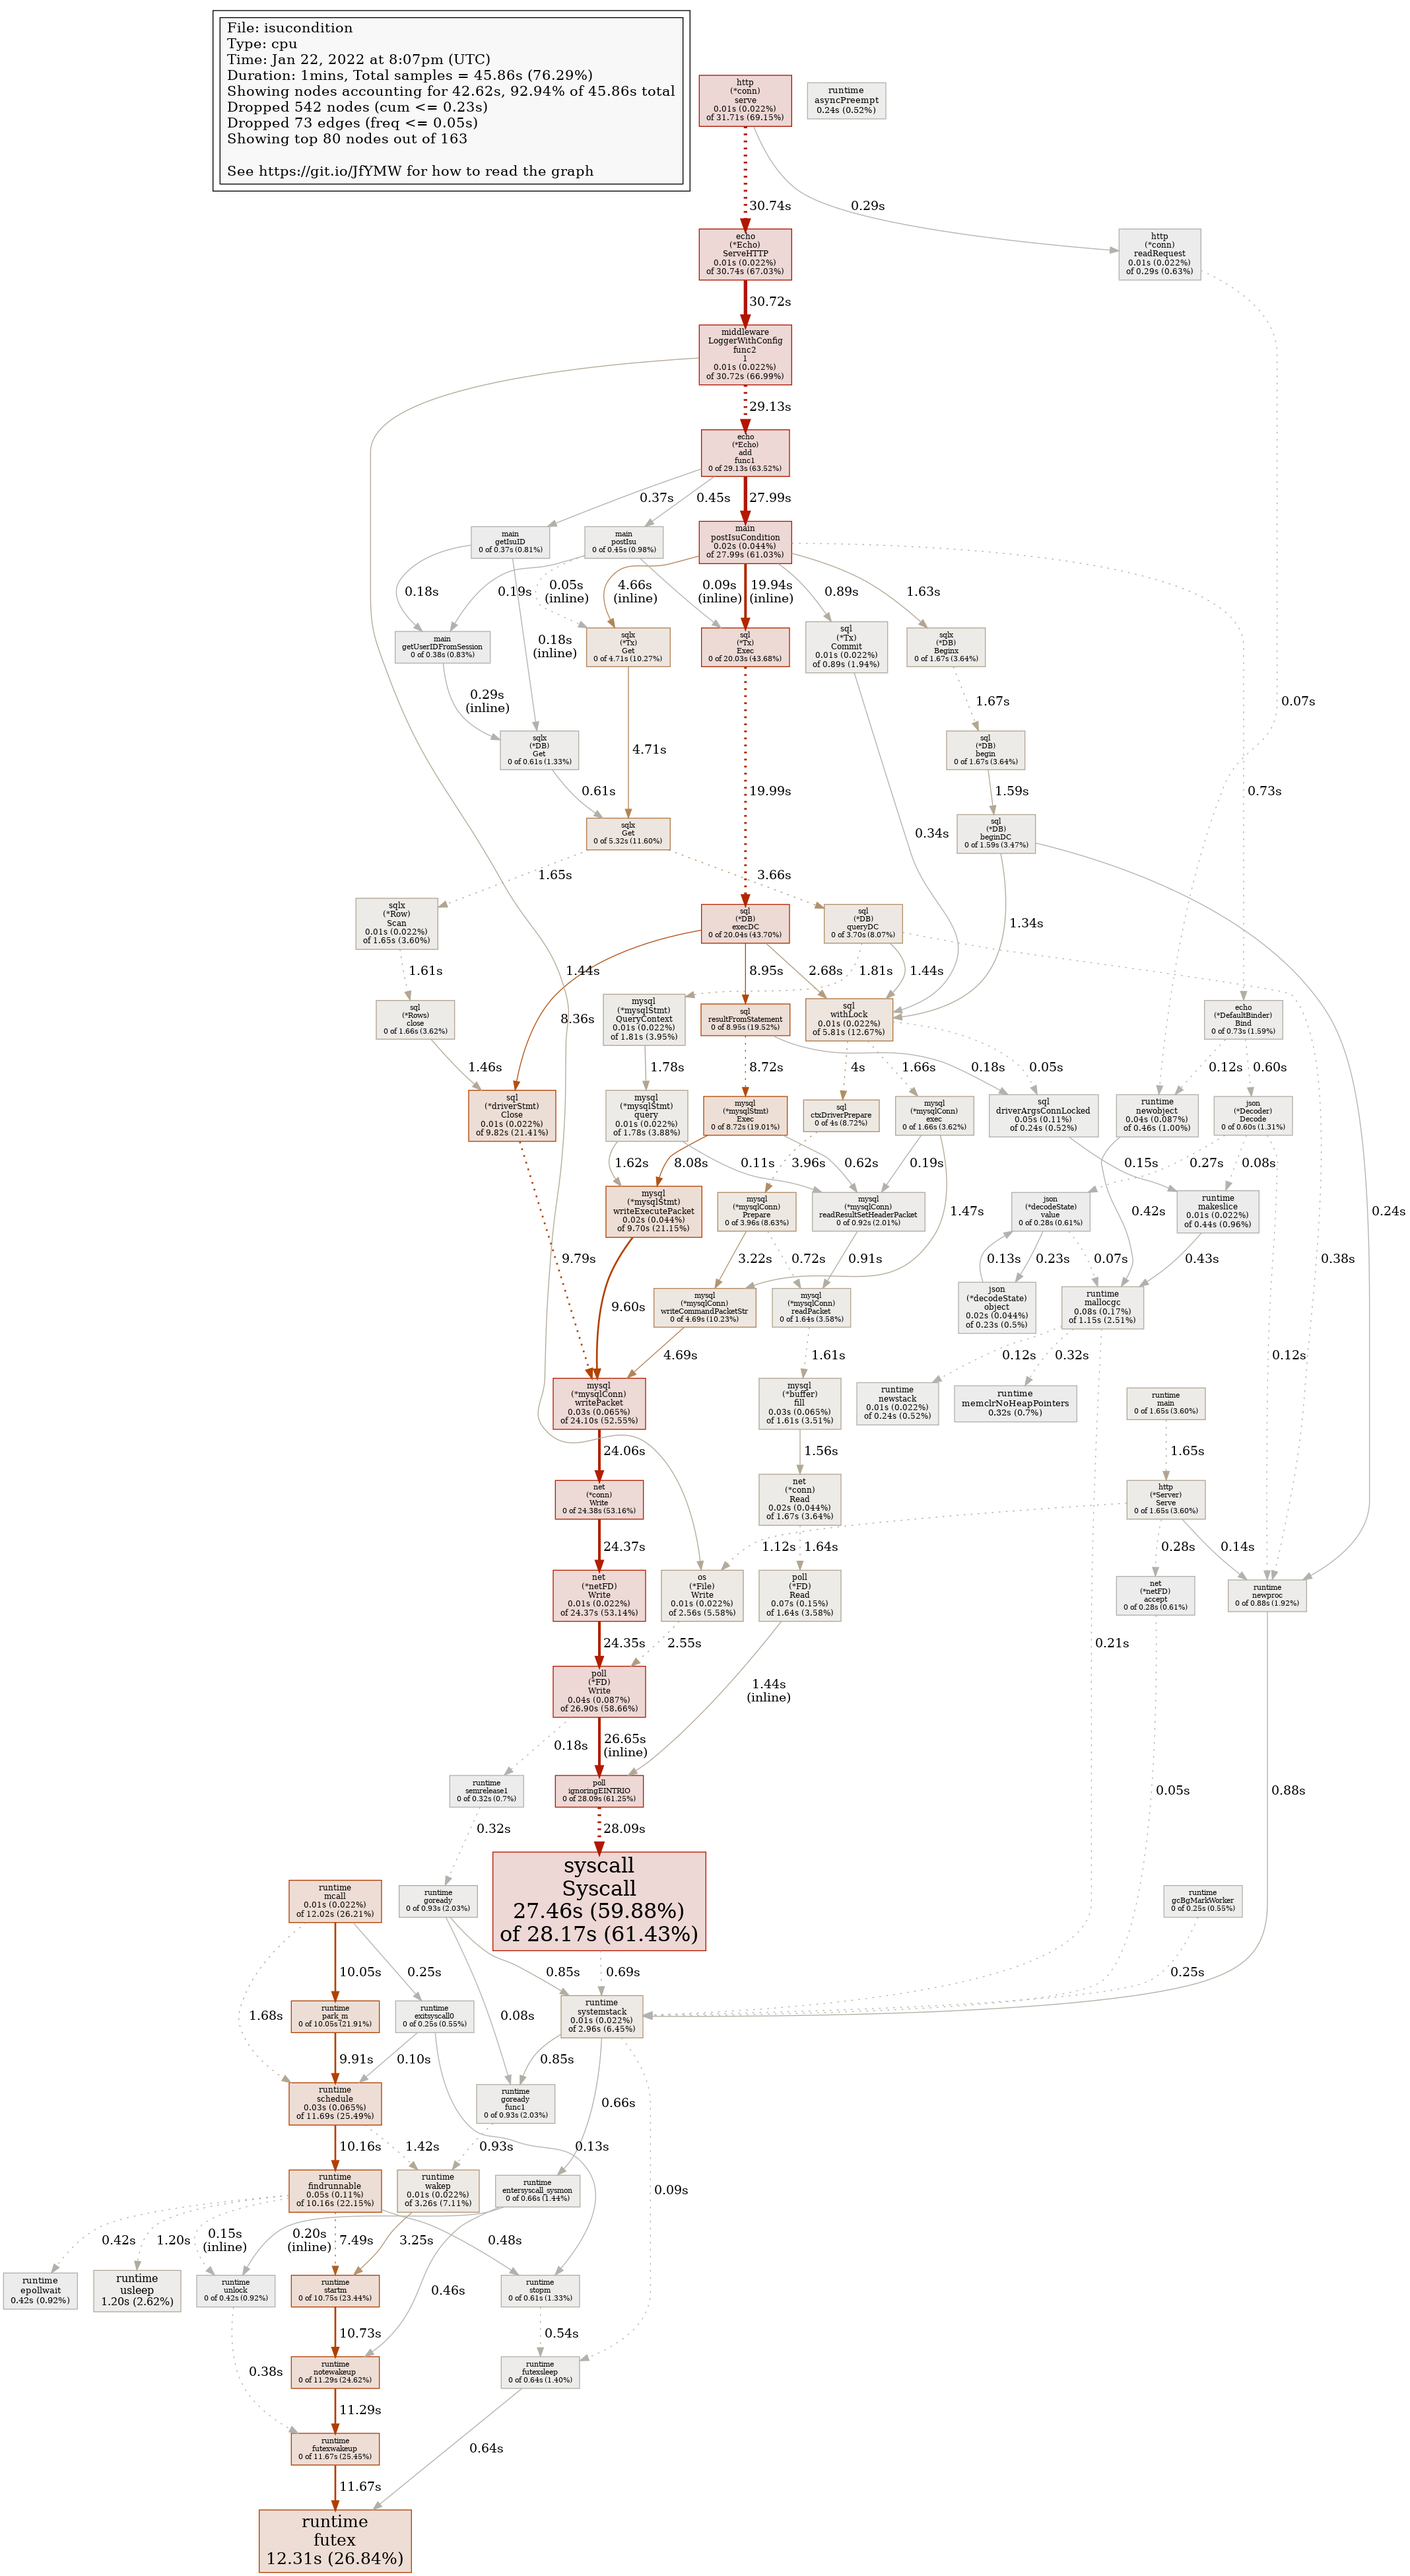
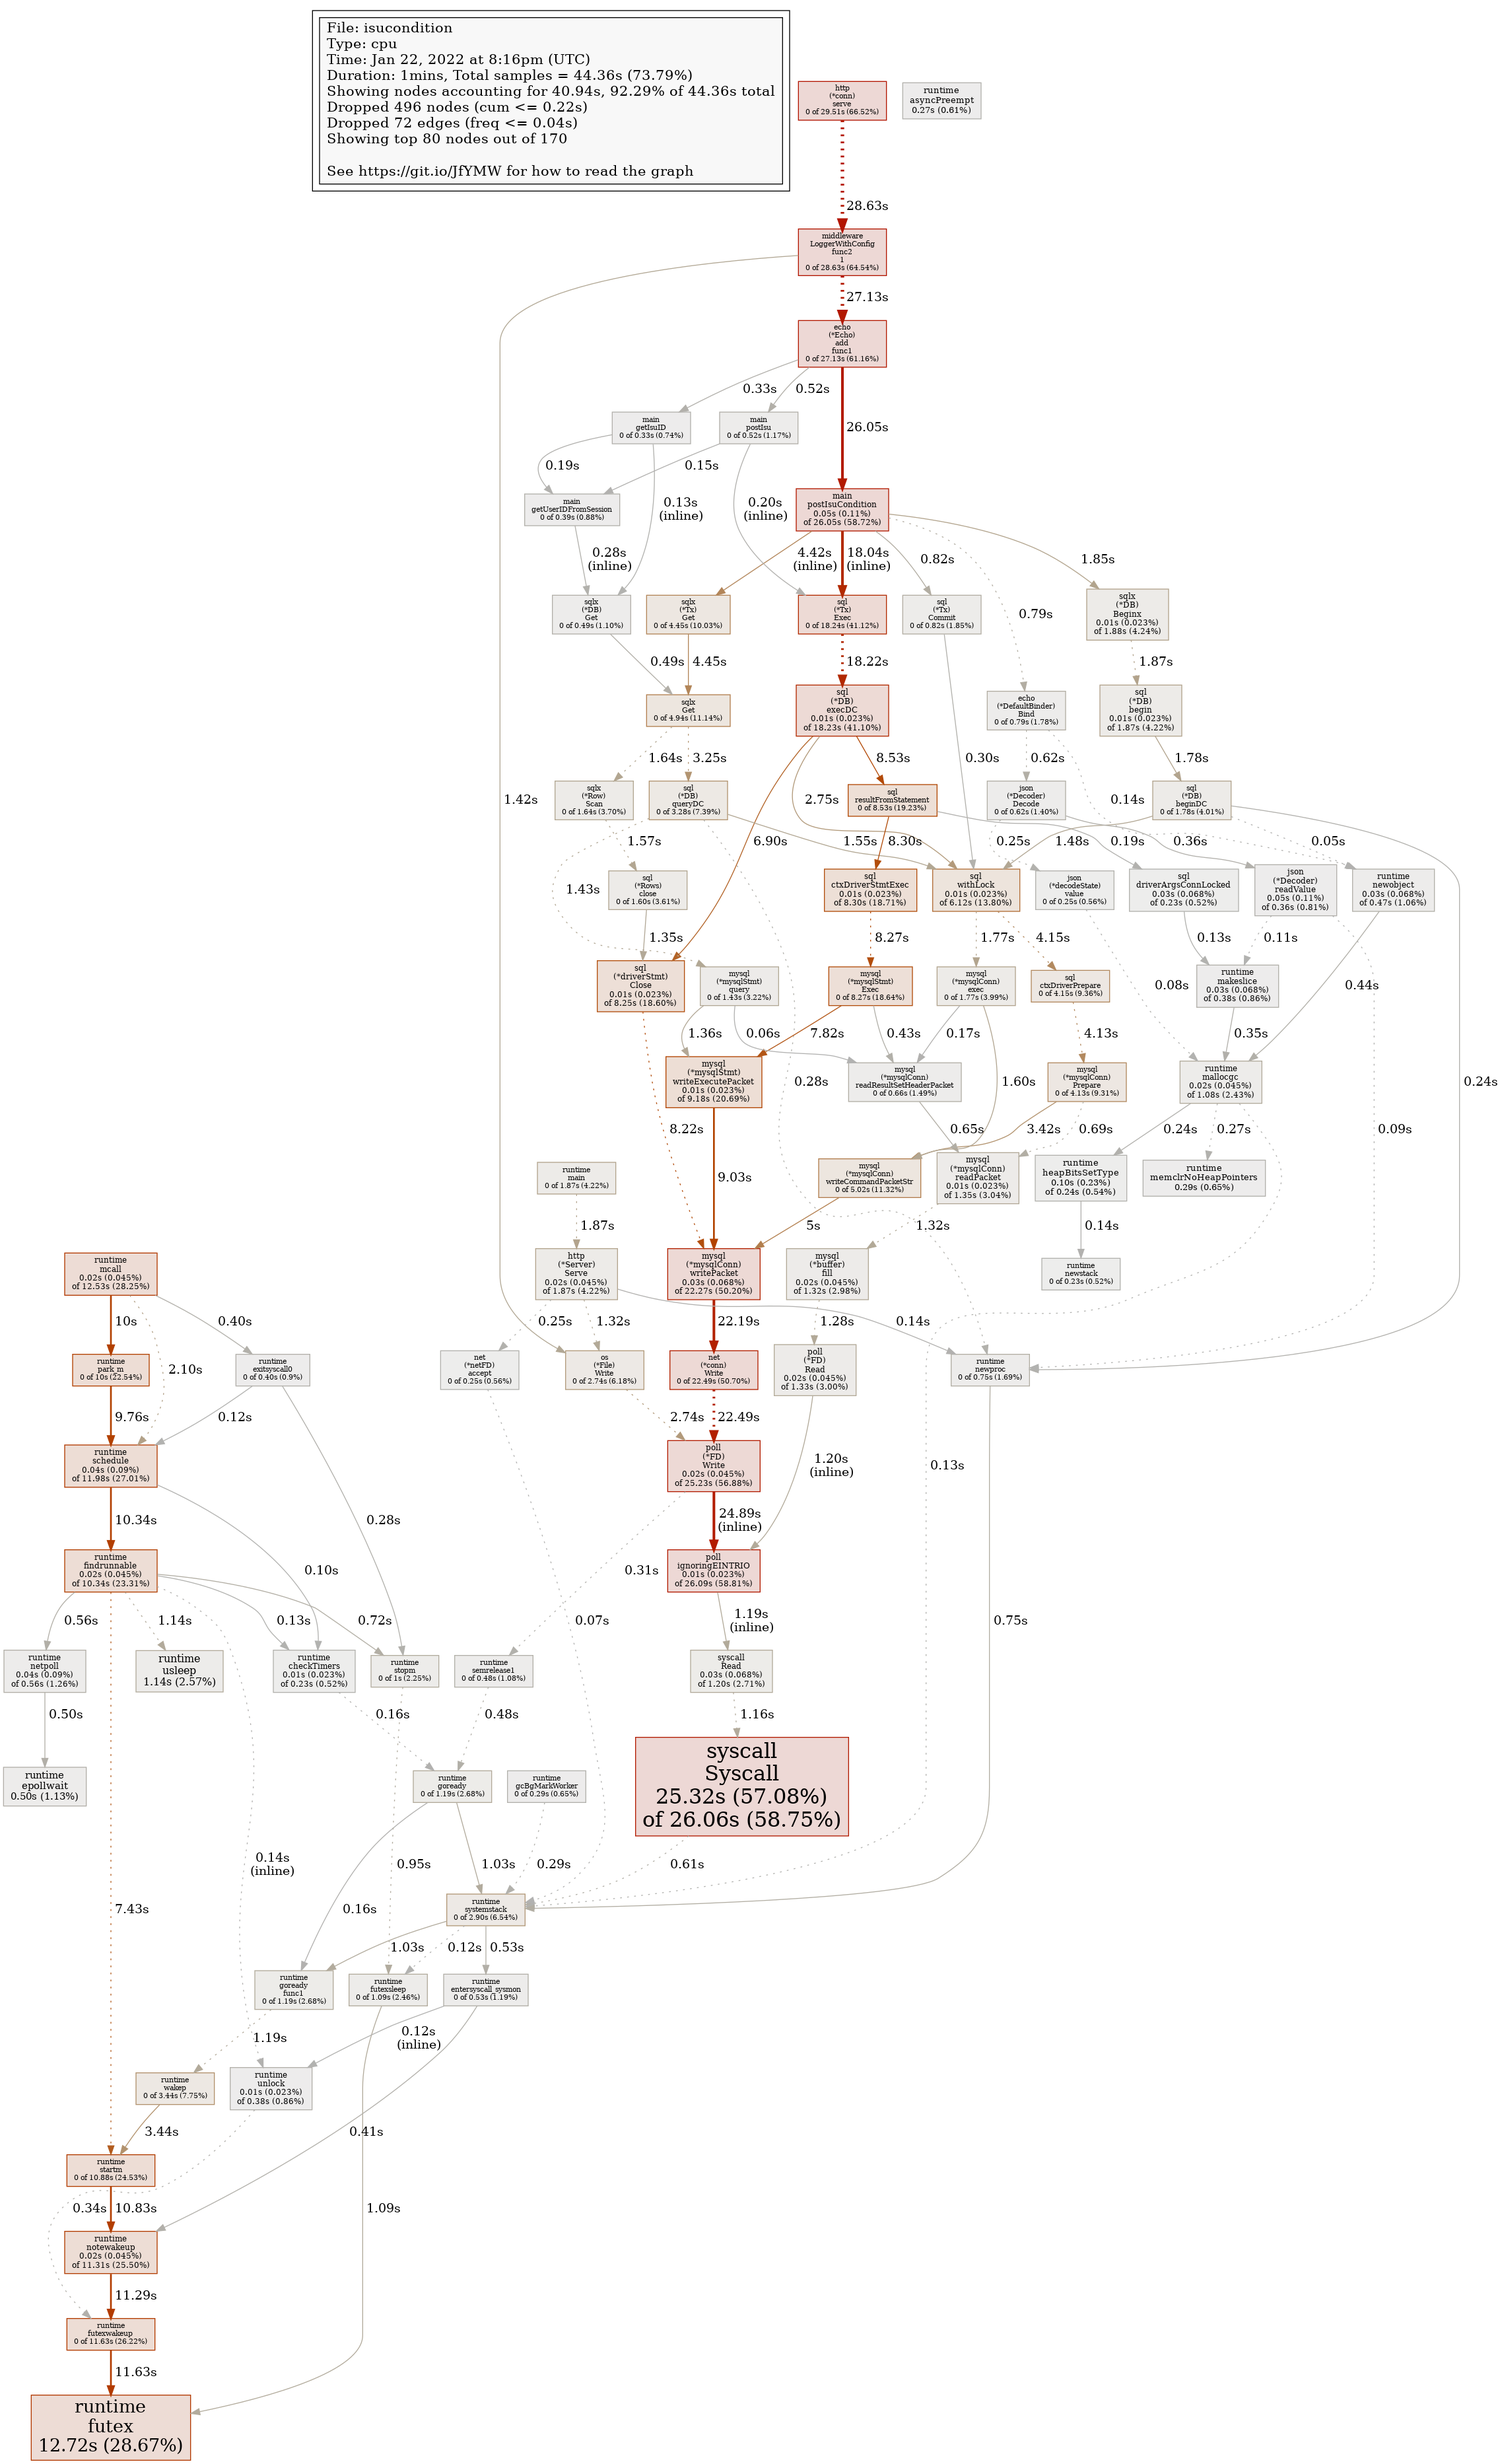
initialize go library setting

diff --git a/go/main.go b/go/main.go
@@ -244,7 +244,16 @@ func main() {
 		return
 	}
 	db.SetMaxOpenConns(100)
+	db.SetConnMaxLifetime(0)
+	db.SetConnMaxIdleTime(0)
 	defer db.Close()
+
+	// goroutineを生やしすぎてもタイムアウトする https://www.sambaiz.net/article/61/
+	// Keep-AliveするとTCPコネクションを使い回し、名前解決やコネクション(3 way handshake)を毎回行わなくてよくなる
+	http.DefaultTransport.(*http.Transport).MaxIdleConns = 0 // 無制限 デフォルトだと100
+	http.DefaultTransport.(*http.Transport).MaxIdleConnsPerHost = 1024 // 0にすると2になっちゃう
+	http.DefaultTransport.(*http.Transport).ForceAttemptHTTP2 = true // go1.13以上
+	http.DefaultClient.Timeout = 5 * time.Second // 問題の切り分け用
 
 	postIsuConditionTargetBaseURL = os.Getenv("POST_ISUCONDITION_TARGET_BASE_URL")
 	if postIsuConditionTargetBaseURL == "" {
